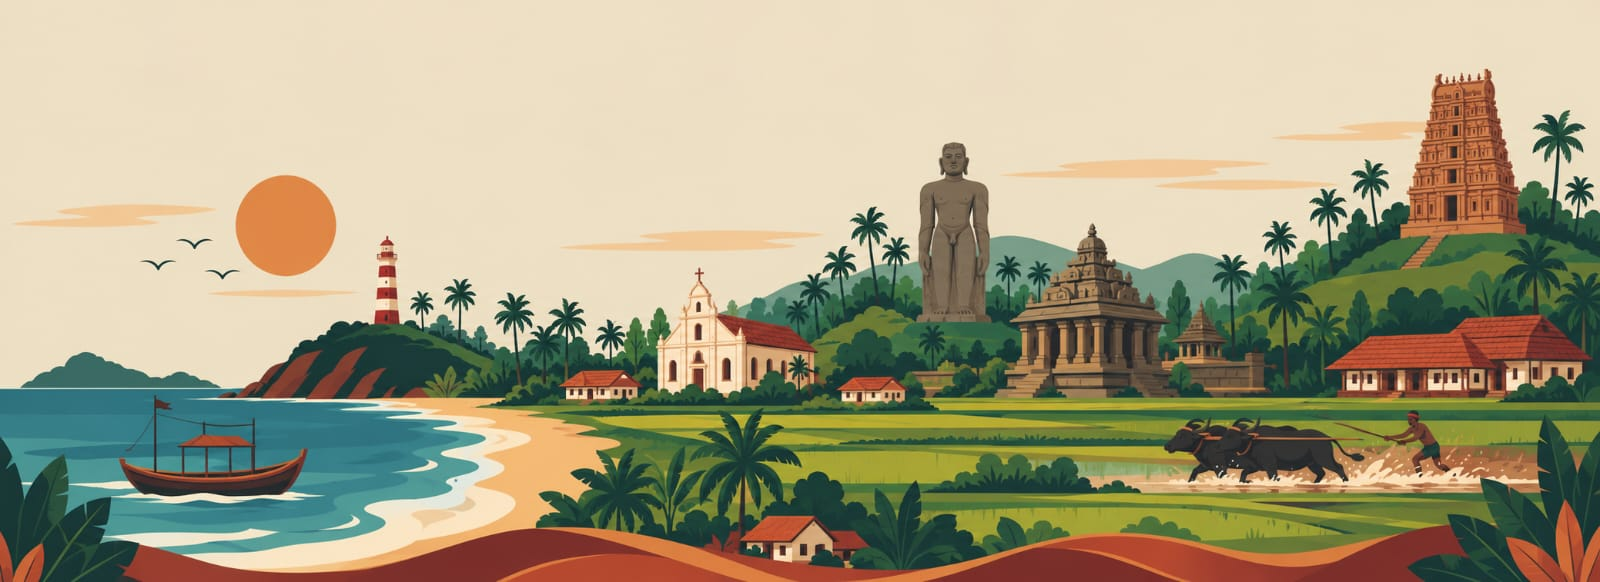
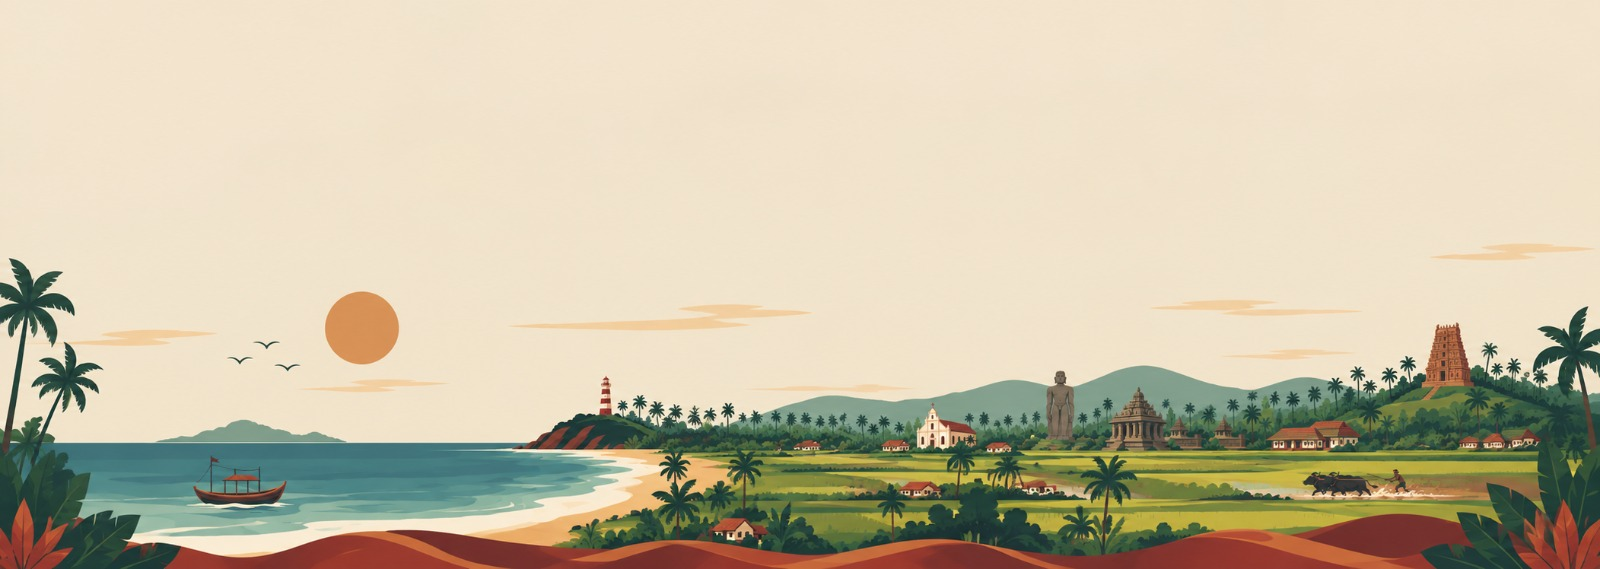
Refine homepage visual layout

diff --git a/src/components/home/BrandStory.tsx b/src/components/home/BrandStory.tsx
@@ -1,87 +1,43 @@
-"use client";
-
-import { useRef, useEffect, useState } from "react";
 import Image from "next/image";
 import { Container } from "@/components/ui/Container";
 
 export function BrandStory() {
-  const sectionRef = useRef<HTMLElement>(null);
-  const [scrollProgress, setScrollProgress] = useState(0);
-
-  useEffect(() => {
-    const handleScroll = () => {
-      if (!sectionRef.current) return;
-      
-      const rect = sectionRef.current.getBoundingClientRect();
-      const windowHeight = window.innerHeight;
-      
-      const rawProgress = 1 - rect.top / windowHeight;
-      const clampedProgress = Math.max(0, Math.min(1, rawProgress));
-      
-      setScrollProgress(clampedProgress);
-    };
-
-    window.addEventListener("scroll", handleScroll, { passive: true });
-    handleScroll();
-    
-    return () => window.removeEventListener("scroll", handleScroll);
-  }, []);
-
   return (
     <section
-      ref={sectionRef}
       aria-labelledby="brand-story-heading"
-      className="relative min-h-[108svh] overflow-hidden bg-[#c8b98f] sm:min-h-[112svh]"
+      className="relative min-h-[100svh] w-full overflow-hidden bg-[#c8b98f] sm:aspect-[1600/582] sm:min-h-0"
     >
-      <div className="pointer-events-none sticky top-0 h-[100svh] w-full overflow-hidden">
-        <div
-          className="absolute inset-0 transition-transform duration-300 ease-out"
-          style={{
-            opacity: Math.min(1, scrollProgress * 2.2),
-            transform: `translateY(${(1 - scrollProgress) * 34}px) scale(${0.96 + scrollProgress * 0.04})`,
-          }}
-        >
-          <Image
-            src="/images/tulunadu-landscape.jpeg"
-            alt=""
-            fill
-            sizes="100vw"
-            className="object-cover object-center"
-            priority
-          />
-
-          <div className="absolute inset-x-0 bottom-0 h-[43%] bg-gradient-to-t from-[#2d4436]/40 to-transparent" />
-        </div>
-
-        <div
-          className="absolute bottom-[5%] left-[4%] h-[45%] w-[22%] opacity-40 transition-transform duration-300 sm:left-[7%] sm:w-[16%]"
-          style={{ transform: `translateY(${(1 - scrollProgress) * 70}px) rotate(${-5 + scrollProgress * 5}deg)` }}
-        >
-          <Image src="/images/illustrations/coconut-tree.svg" alt="" fill className="object-contain object-bottom" unoptimized />
-        </div>
-        <div
-          className="absolute bottom-[4%] right-[2%] hidden h-[55%] w-[18%] opacity-45 transition-transform duration-300 sm:block"
-          style={{ transform: `translateY(${(1 - scrollProgress) * 50}px) rotate(${5 - scrollProgress * 5}deg)` }}
-        >
-          <Image src="/images/illustrations/coconut-tree.svg" alt="" fill className="object-contain object-bottom" unoptimized />
-        </div>
+      <div className="absolute inset-0 overflow-hidden">
+        <Image
+          src="/images/tulunadu-landscape.jpeg"
+          alt=""
+          fill
+          sizes="100vw"
+          className="object-cover object-[58%_center] sm:object-contain sm:object-center"
+          priority
+        />
       </div>
 
       <Container size="default" className="pointer-events-none absolute inset-0 z-10 flex items-center">
-        <div className="max-w-xl px-2 pb-[8vh] text-[#2e211b] sm:ml-[8%] sm:pb-0">
+        <div
+          className="max-w-[34rem] px-2 py-10 text-[#2e211b] opacity-100 sm:ml-[6%] sm:py-12"
+          style={{ textShadow: "0 1px 2px rgba(243, 232, 210, 0.7)" }}
+        >
           <h2
             id="brand-story-heading"
-            className="text-xs font-sans font-semibold uppercase tracking-[0.24em] text-[var(--color-brand-primary)] sm:text-sm"
+            className="text-2xl font-serif font-medium leading-[1.08] text-[#2e211b] sm:text-4xl lg:text-5xl"
           >
-            What is Koral Collective?
+            Walk the textures of Tulunadu threaded through time
           </h2>
-          <p className="mt-5 text-3xl font-serif font-medium leading-[1.08] text-[#2e211b] sm:text-5xl">
-            An experiential, story-driven digital presence celebrating heritage, cuisine, and community gathering.
-          </p>
-          <div className="my-6 h-px w-20 bg-[var(--color-accent)] sm:my-8" />
-          <p className="max-w-lg text-base font-sans font-light leading-relaxed text-[#50382b] sm:text-lg">
-            Koral Collective prioritizes narrative, visual immersion, and discovery over transactional e-commerce. We curate half-day experiential journeys and café-centered cultural gatherings designed to introduce visitors to authentic local traditions.
-          </p>
+          <div className="my-5 h-px w-20 bg-[var(--color-accent)] sm:my-6" />
+          <div className="max-w-lg space-y-4 text-sm font-sans font-normal leading-[1.45] text-[#2e211b] sm:text-base sm:leading-relaxed">
+            <p>
+              Sheltered at the foot of the Western Ghats and battered by sea and rain, Tulunadu endures in the collective memory of its people and in the stories still told. Its cultural life is animated by traditions unlike any others. To those who are willing to travel in unhurried grace, Tulunadu unravels its aura, living cultures, cuisines, and heritage.
+            </p>
+            <p>
+              The koral collective invites you to experience a Tulunadu rarely seen, through curated walking tours led by historians, archaeologists, anthropologists, architects, and social scientists. You cannot help but return with forgotten secrets of the land and the stories whispered by the trees to the sea in a language older than memory.
+            </p>
+          </div>
         </div>
       </Container>
     </section>

diff --git a/src/components/layout/SiteHeader.tsx b/src/components/layout/SiteHeader.tsx
@@ -37,7 +37,7 @@ export function SiteHeader() {
       className={cn(
         "fixed top-0 left-0 right-0 z-50 transition-all duration-300 ease-in-out border-b",
         headerActive 
-          ? "bg-[var(--color-bg-base)]/95 backdrop-blur-md border-[var(--color-border-subtle)] shadow-sm py-0" 
+          ? "bg-[#6B312D] border-[#6B312D] shadow-sm py-0"
           : "bg-transparent border-transparent py-2"
       )}
     >
@@ -56,7 +56,7 @@ export function SiteHeader() {
               height={120}
               className={cn(
                 "h-16 w-auto object-contain transition-all duration-300",
-                !headerActive && "brightness-0 invert drop-shadow-md"
+                !headerActive && "drop-shadow-md"
               )}
               priority
               unoptimized
@@ -76,11 +76,11 @@ export function SiteHeader() {
                         "transition-colors py-2 border-b-2 tracking-wide",
                         headerActive 
                           ? (isActive
-                            ? "border-[var(--color-brand-primary)] text-[var(--color-brand-primary)]"
-                            : "border-transparent text-[var(--color-text-muted)] hover:text-[var(--color-brand-primary)]")
+                            ? "border-[var(--color-brand-primary)] text-white"
+                            : "border-transparent text-white hover:text-white")
                           : (isActive
                             ? "border-white/80 text-white"
-                            : "border-transparent text-white/80 hover:text-white hover:border-white/30")
+                            : "border-transparent text-white hover:text-white hover:border-white/30")
                       )}
                       aria-current={isActive ? "page" : undefined}
                     >
@@ -98,7 +98,7 @@ export function SiteHeader() {
             className={cn(
               "inline-flex items-center justify-center p-2 rounded-md transition-colors focus:outline-none focus:ring-2 focus:ring-offset-2 md:hidden",
               headerActive 
-                ? "text-[var(--color-text-muted)] hover:text-[var(--color-text-primary)] hover:bg-[var(--color-bg-subtle)] focus:ring-[var(--color-brand-primary)]" 
+                ? "text-white hover:text-white hover:bg-white/10 focus:ring-[var(--color-brand-primary)]"
                 : "text-white hover:bg-white/10 focus:ring-white"
             )}
             onClick={() => setMobileMenuOpen(!mobileMenuOpen)}
@@ -137,8 +137,8 @@ export function SiteHeader() {
                       className={cn(
                         "block px-3 py-2 text-base font-sans font-medium rounded-md transition-colors",
                         isActive
-                          ? "bg-[var(--color-bg-subtle)] text-[var(--color-brand-primary)]"
-                          : "text-[var(--color-text-muted)] hover:bg-[var(--color-bg-subtle)] hover:text-[var(--color-text-primary)]"
+                          ? "bg-white/10 text-white"
+                          : "text-white hover:bg-white/10 hover:text-white"
                       )}
                       aria-current={isActive ? "page" : undefined}
                     >

diff --git a/src/features/hero/HeroStage.tsx b/src/features/hero/HeroStage.tsx
@@ -1,14 +1,11 @@
 "use client";
 
-import { HeroSkipButton } from "./HeroSkipButton";
-
 type HeroStageProps = {
   progress: number;
   isReducedMotion: boolean;
-  onSkip: () => void;
 };
 
-export function HeroStage({ progress, isReducedMotion, onSkip }: HeroStageProps) {
+export function HeroStage({ progress, isReducedMotion }: HeroStageProps) {
   // Title scaling and positioning
   const titleY = isReducedMotion ? 0 : -progress * 60; 
   const titleOpacity = isReducedMotion ? 1 : Math.max(0, 1 - progress * 2.5);
@@ -35,16 +32,6 @@ export function HeroStage({ progress, isReducedMotion, onSkip }: HeroStageProps)
 
       <div className="absolute inset-0 bg-[#261914]/45 pointer-events-none" />
       <div className="absolute inset-0 bg-gradient-to-b from-[#261914]/55 via-transparent to-[#261914]/35 pointer-events-none" />
-
-      {/* Hero Skip Control */}
-      {!isReducedMotion && progress < 0.9 && (
-        <div className="absolute top-6 right-6 z-50 sm:top-8 sm:right-8">
-          <HeroSkipButton
-            onSkip={onSkip}
-            className="px-4 py-2 text-xs font-sans font-medium uppercase tracking-wider rounded-full border border-white/20 bg-black/20 text-white backdrop-blur-md hover:bg-white/20 transition-all focus:outline-none focus:ring-2 focus:ring-[var(--color-accent)]"
-          />
-        </div>
-      )}
 
       {/* Centered Stage Content */}
       <div className="relative z-20 flex h-full flex-col items-center justify-start pt-[20vh] px-4 text-center">

diff --git a/src/features/hero/HeroEntry.tsx b/src/features/hero/HeroEntry.tsx
@@ -17,7 +17,7 @@ type HeroEntryProps = {
 export function HeroEntry({ scrollDistanceMultiplier = 2.5 }: HeroEntryProps) {
   const trackRef = useRef<HTMLDivElement>(null);
 
-  const { progress, isReducedMotion, skipHero } = useHeroScroll({
+  const { progress, isReducedMotion } = useHeroScroll({
     trackRef,
   });
 
@@ -33,7 +33,6 @@ export function HeroEntry({ scrollDistanceMultiplier = 2.5 }: HeroEntryProps) {
         <HeroStage
           progress={progress}
           isReducedMotion={isReducedMotion}
-          onSkip={skipHero}
         />
       </div>
       <div id="home-content" className="absolute bottom-0 left-0 right-0 h-px pointer-events-none" />
